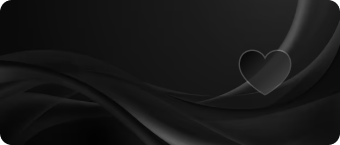
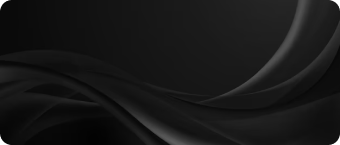
Commit: favorite image fix

Changed region(s): [[0.7353, 0.331, 0.8529, 0.6621], [0.7059, 0.4966, 0.7647, 0.5793], [0.7059, 0.331, 0.7647, 0.4138]]

diff --git a/src/components/FavExercises.tsx b/src/components/FavExercises.tsx
@@ -1,5 +1,6 @@
 import { Dimensions, Image, ImageBackground, StyleSheet, Text, TouchableOpacity, View } from 'react-native'
 import React from 'react'
+import Svg, { Path, Defs, LinearGradient, Stop } from "react-native-svg"
 
 
 
@@ -7,7 +8,7 @@ export default function FavExercises() {
     return (
         <View style={styles.main}>
           <ImageBackground resizeMode="stretch" style={styles.container}  source={require('../../assets/images/app/favExerBg.png')}>
-          
+          <View>
             <View>
               <Text style={{ fontFamily: 'Regular', fontSize: 24, color: 'rgba(255,255,255,0.9)', }}>Train everyday</Text>
               <Text style={{ fontFamily: 'Light', fontSize: 13, color: 'rgba(255,255,255,0.5)', }}>with your favourite exercises.</Text>
@@ -15,7 +16,7 @@ export default function FavExercises() {
             <TouchableOpacity style={{
               backgroundColor: '#201F1F',
               borderRadius: 20,
-              width: '47%',
+              width: '100%',
               marginTop: 20,
               paddingVertical: 10,
               borderColor: '#282727',
@@ -26,6 +27,36 @@ export default function FavExercises() {
                  See your favourite 
               </Text>
             </TouchableOpacity>
+          </View>
+          <View>
+            <Svg width={54} height={47} fill="none">
+              <Path
+                fill="url(#a)"
+                d="M27 10.498C21.444-2.15 2-.802 2 15.363S27 45 27 45s25-13.472 25-29.637S32.556-2.15 27 10.498Z"
+              />
+              <Path
+                stroke="#fff"
+                strokeLinecap="round"
+                strokeLinejoin="round"
+                strokeOpacity={0.2}
+                strokeWidth={1.4}
+                d="m27 45-.332.616a.7.7 0 0 0 .664 0L27 45Zm0 0 .333.616h0l.005-.003.015-.008.056-.03.214-.12c.187-.104.459-.259.805-.461.691-.405 1.677-1 2.858-1.764 2.362-1.527 5.515-3.735 8.671-6.456 3.154-2.72 6.329-5.966 8.72-9.574 2.39-3.607 4.023-7.613 4.023-11.837 0-4.187-1.262-7.472-3.296-9.817-2.031-2.342-4.795-3.704-7.724-4.114C36.23.671 30.157 3.203 27 8.92 23.843 3.203 17.77.67 12.32 1.432c-2.93.41-5.693 1.772-7.724 4.114C2.562 7.89 1.3 11.176 1.3 15.363c0 4.224 1.632 8.23 4.023 11.837 2.391 3.608 5.566 6.855 8.72 9.574 3.156 2.72 6.309 4.929 8.67 6.456a76.058 76.058 0 0 0 2.86 1.764 51.015 51.015 0 0 0 1.018.58l.056.031.015.008.004.002h.001L27 45Z"
+              />
+              <Defs>
+                <LinearGradient
+                  id="a"
+                  x1={57}
+                  x2={12.5}
+                  y1={39.5}
+                  y2={-5}
+                  gradientUnits="userSpaceOnUse"
+                >
+                  <Stop stopColor="#565656" stopOpacity={0.9} />
+                  <Stop offset={1} stopOpacity={0.8} />
+                </LinearGradient>
+              </Defs>
+            </Svg>
+          </View>
           </ImageBackground>
         </View>
     )
@@ -33,8 +64,10 @@ export default function FavExercises() {
 
 const styles = StyleSheet.create({
     container: {
+      flexDirection:'row',
+      justifyContent: 'space-between',
+      alignItems: 'center',
       padding: 20,
-      height: 145,
       width:  Dimensions.get('window').width - 50,
     },
     main: {

diff --git a/src/components/TasksTodayHome.tsx b/src/components/TasksTodayHome.tsx
@@ -48,7 +48,7 @@ export default function TasksTodayHome() {
                             {
                                 item.present==100 ? (
                                   <AnimatedCircularProgress
-                                  size={68}
+                                  size={75}
                                   width={6}
                                   fill={item.present}
                                   rotation={0}
@@ -64,7 +64,7 @@ export default function TasksTodayHome() {
                                 </AnimatedCircularProgress>
                                 ) : (
                                   <AnimatedCircularProgress
-                                    size={68}
+                                    size={75}
                                     width={6}
                                     fill={item.present}
                                     rotation={0}
